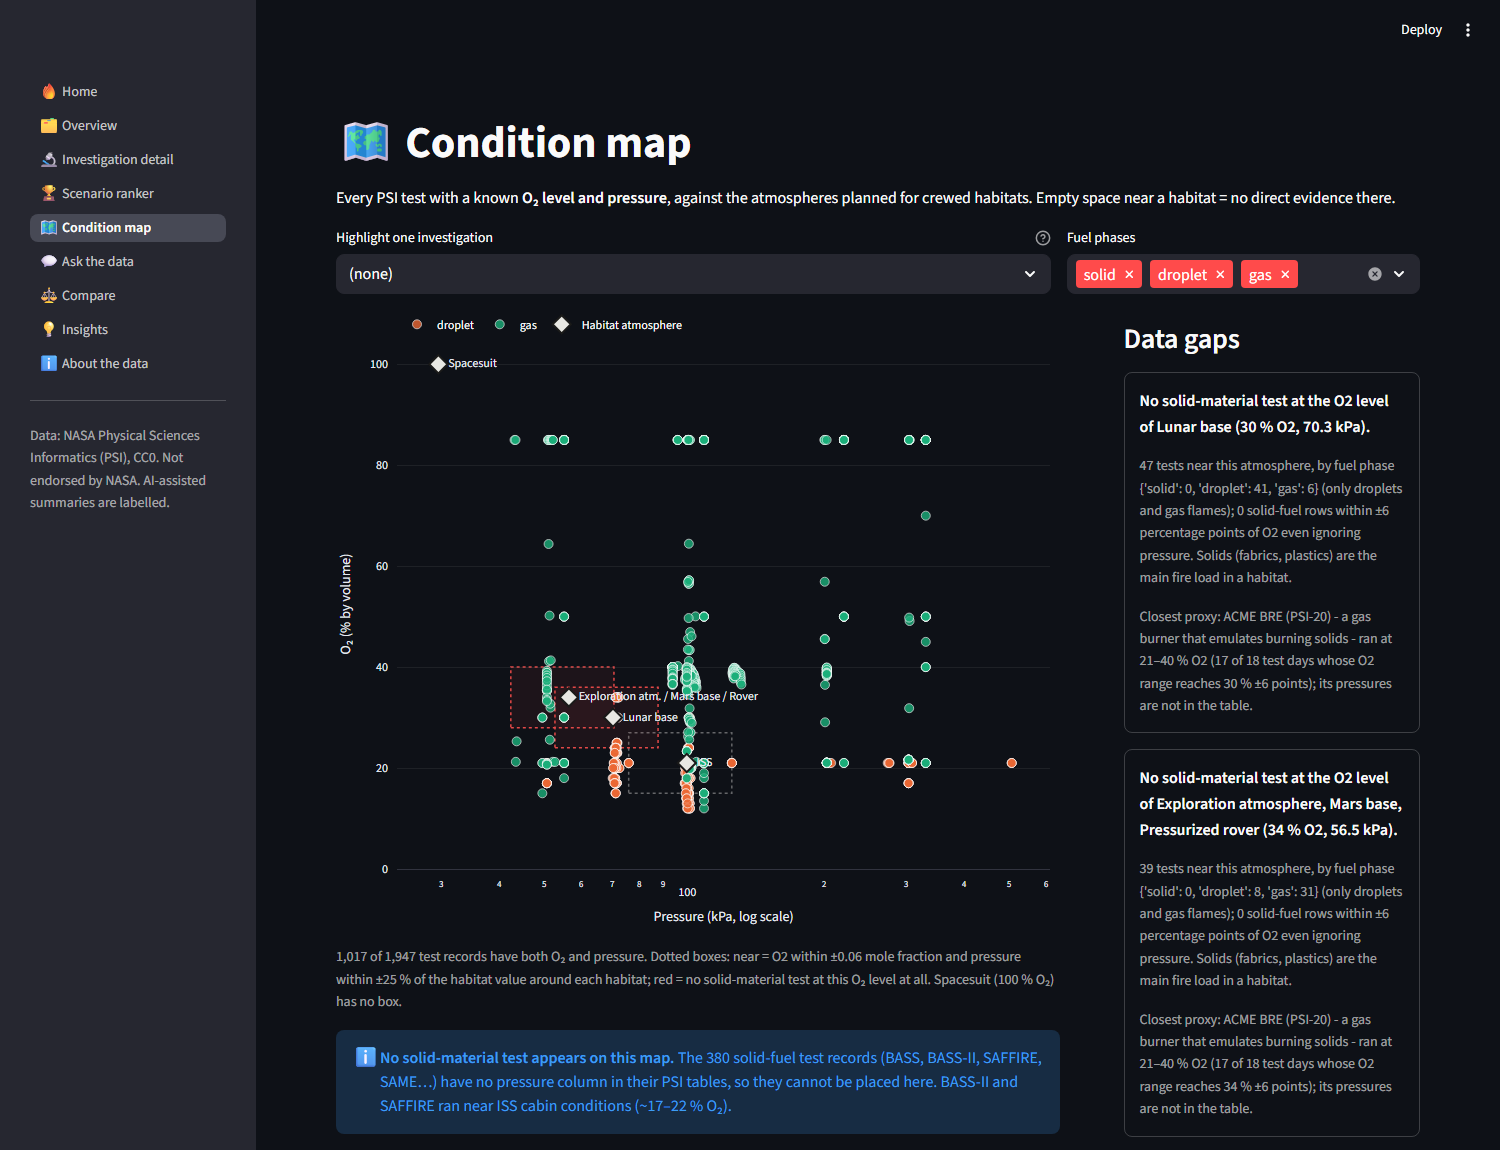
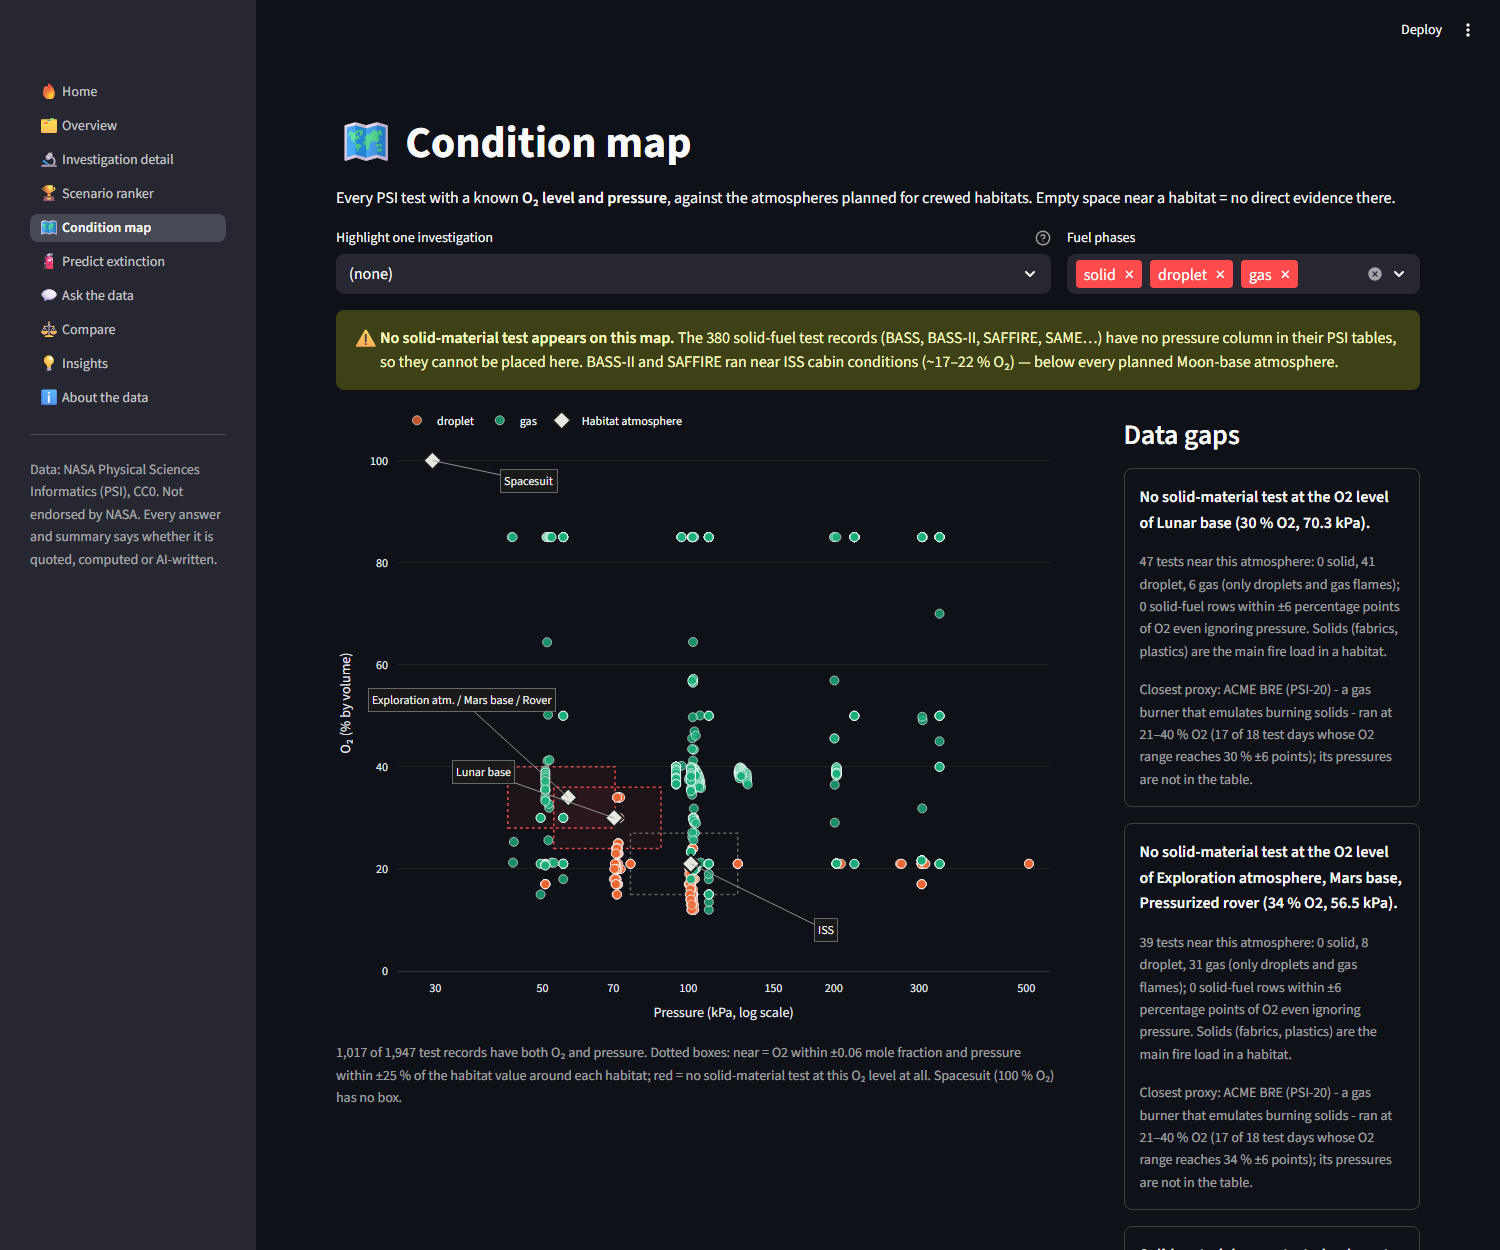
pc3: condition map readability
- log x-axis with fixed kPa ticks 30/50/70/100/150/200/300/500 and a fixed range
- habitat names as annotations with a leader line and solid background, placed in empty
  parts of the plot (no longer on top of test points); psi added to the habitat hover
- 'No solid-material test appears on this map' moved above the chart (warning)
- gap cards checked against main's rewritten coverage.json text

Closes #17

diff --git a/app/views/condition_map.py b/app/views/condition_map.py
@@ -1,3 +1,5 @@
+import math
+
 import pandas as pd
 import plotly.graph_objects as go
 import streamlit as st
@@ -8,6 +10,11 @@ from app import data
 PHASE_COLOURS = {"solid": "#2a78d6", "droplet": "#eb6834", "gas": "#1baf7a"}
 MUTED = "rgba(150,150,150,0.35)"
 HABITAT_COLOUR = "#e8e8e3"
+KPA_TICKS = [30, 50, 70, 100, 150, 200, 300, 500]
+PSI_TO_KPA = 6.894757
+# Where each habitat's label goes, relative to its marker: (log10 kPa, O2 percentage points).
+LABEL_OFFSETS = {"ISS": (0.28, -13), "Lunar base": (-0.27, 9), "Exploration atm.": (-0.22, 19),
+                 "Spacesuit": (0.2, -4)}
 SHORT_NAMES = {"Exploration atmosphere": "Exploration atm.", "Pressurized rover": "Rover"}
 
 st.title("🗺 Condition map")
@@ -85,34 +92,47 @@ for phase, colour in PHASE_COLOURS.items():
 
 if habs:
     fig.add_scatter(
-        x=[h["pressure_kPa"] for h in habs], y=[h["o2_frac"] * 100 for h in habs], mode="markers+text",
-        name="Habitat atmosphere", text=[h["name"] for h in habs], textposition="middle right",
-        textfont=dict(size=12), marker=dict(symbol="diamond", size=14, color=HABITAT_COLOUR,
-                                            line=dict(width=2, color="#1a1a19")),
-        customdata=[[h["n_tests_near"], (h.get("by_fuel_phase") or {}).get("solid", 0), h.get("source", "")]
-                    for h in habs],
-        hovertemplate="<b>%{text}</b><br>%{y:.0f} % O₂ · %{x:.1f} kPa<br>%{customdata[0]} tests nearby, "
-                      "%{customdata[1]} with solids<br>%{customdata[2]}<extra></extra>",
+        x=[h["pressure_kPa"] for h in habs], y=[h["o2_frac"] * 100 for h in habs], mode="markers",
+        name="Habitat atmosphere", text=[h["name"] for h in habs],
+        marker=dict(symbol="diamond", size=14, color=HABITAT_COLOUR, line=dict(width=2, color="#1a1a19")),
+        customdata=[[h["n_tests_near"], (h.get("by_fuel_phase") or {}).get("solid", 0), h.get("source", ""),
+                     h["pressure_kPa"] / PSI_TO_KPA] for h in habs],
+        hovertemplate="<b>%{text}</b><br>%{y:.0f} % O₂ · %{x:.1f} kPa (= %{customdata[3]:.1f} psi)<br>"
+                      "%{customdata[0]} tests nearby, %{customdata[1]} with solids<br>%{customdata[2]}<extra></extra>",
     )
+    # Labels sit in empty parts of the plot with a leader line, on a solid background, so they never
+    # cover test points. Offsets are in axis units (log10 kPa, O2 %).
+    for h in habs:
+        dx, dy = LABEL_OFFSETS.get(h["name"].split(" / ")[0], (0.12, 6))
+        fig.add_annotation(
+            x=math.log10(h["pressure_kPa"]), y=h["o2_frac"] * 100, xref="x", yref="y",
+            ax=math.log10(h["pressure_kPa"]) + dx, ay=h["o2_frac"] * 100 + dy, axref="x", ayref="y",
+            text=h["name"], showarrow=True, arrowhead=0, arrowwidth=1, arrowcolor="rgba(160,160,160,0.9)",
+            font=dict(size=12, color="#f0efec"), bgcolor="rgba(26,26,25,0.88)",
+            bordercolor="rgba(160,160,160,0.6)", borderwidth=1, borderpad=3)
 
 fig.update_layout(
     height=620, margin=dict(l=0, r=10, t=10, b=0),
-    xaxis=dict(title="Pressure (kPa, log scale)", type="log", gridcolor="rgba(128,128,128,0.15)"),
+    xaxis=dict(title="Pressure (kPa, log scale)", type="log", gridcolor="rgba(128,128,128,0.15)",
+               tickvals=KPA_TICKS, ticktext=[f"{v:g}" for v in KPA_TICKS],
+               range=[math.log10(25), math.log10(560)]),
     yaxis=dict(title="O₂ (% by volume)", range=[0, 105], gridcolor="rgba(128,128,128,0.15)"),
     legend=dict(orientation="h", yanchor="bottom", y=1.0, x=0, title=None),
 )
+n_solid = int((t["fuel_phase"] == "solid").sum())
+n_solid_plotted = int((plot["fuel_phase"] == "solid").sum())
+if n_solid and n_solid_plotted == 0:
+    st.warning(f"**No solid-material test appears on this map.** The {n_solid} solid-fuel test records "
+               "(BASS, BASS-II, SAFFIRE, SAME…) have no pressure column in their PSI tables, so they cannot be "
+               "placed here. BASS-II and SAFFIRE ran near ISS cabin conditions (~17–22 % O₂) — below every "
+               "planned Moon-base atmosphere.", icon="⚠")
+
 left, right = st.columns([2.3, 1], gap="large")
 with left:
     st.plotly_chart(fig, width="stretch", config={"displayModeBar": False})
     st.caption(f"{len(plot):,} of {len(t):,} test records have both O₂ and pressure. Dotted boxes: "
                f"{near_txt.split(';')[0]} around each habitat; "
                "red = no solid-material test at this O₂ level at all. Spacesuit (100 % O₂) has no box.")
-    n_solid = int((t["fuel_phase"] == "solid").sum())
-    n_solid_plotted = int((plot["fuel_phase"] == "solid").sum())
-    if n_solid and n_solid_plotted == 0:
-        st.info(f"**No solid-material test appears on this map.** The {n_solid} solid-fuel test records "
-                "(BASS, BASS-II, SAFFIRE, SAME…) have no pressure column in their PSI tables, so they cannot be "
-                "placed here. BASS-II and SAFFIRE ran near ISS cabin conditions (~17–22 % O₂).", icon="ℹ")
 
 with right:
     st.subheader("Data gaps")
